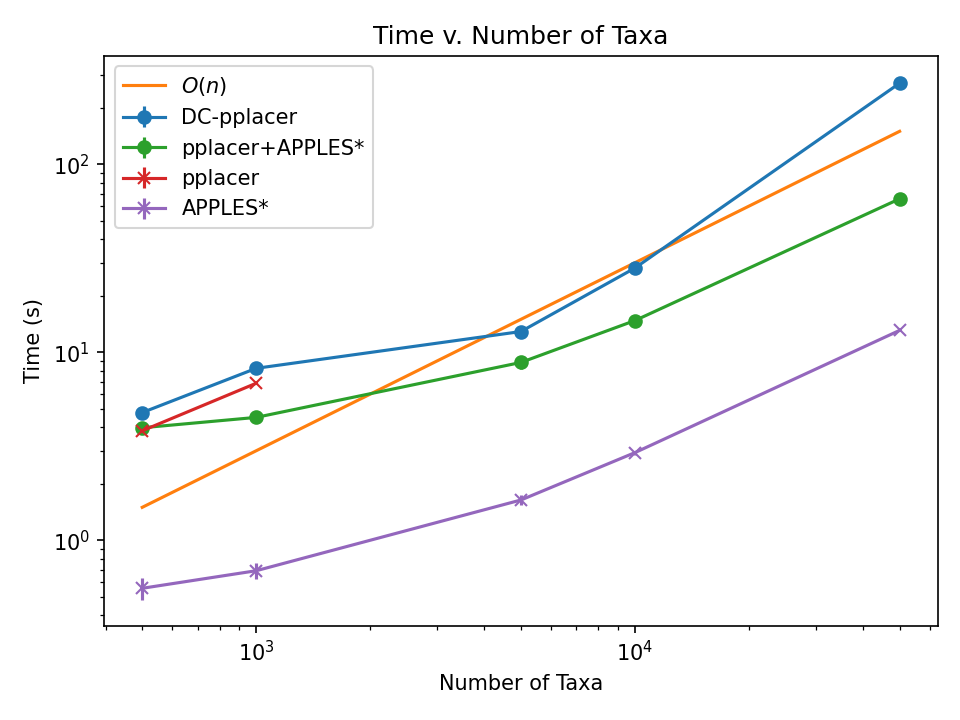
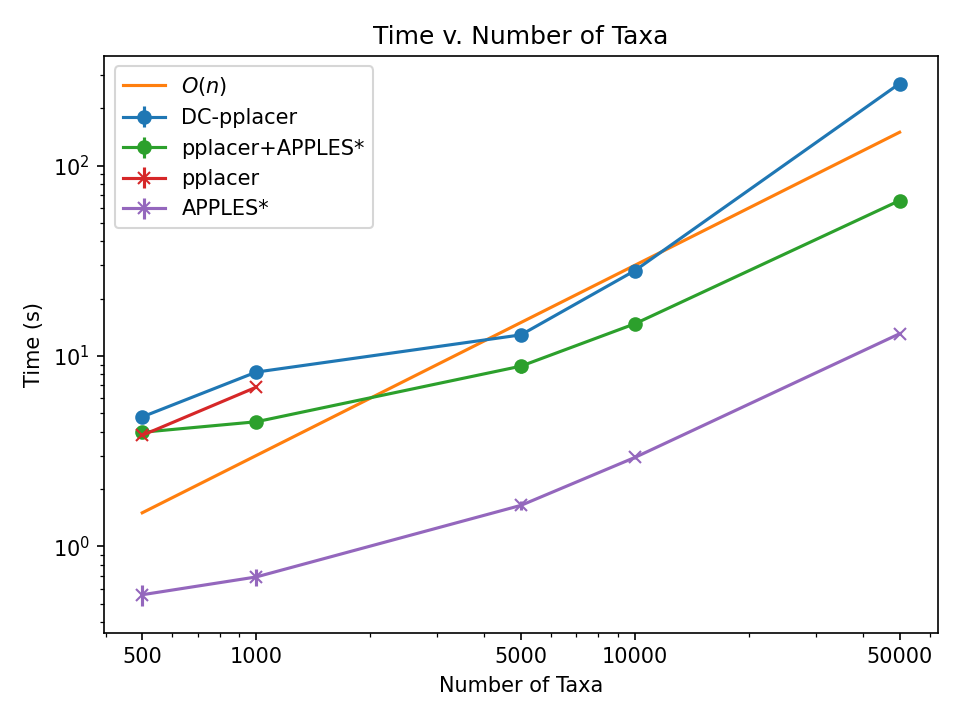
Add xtick, xticklabels at desired locations

diff --git a/data/timing.py b/data/timing.py
@@ -55,6 +55,9 @@ apples_regex = "apples took (.*) s"
 avg_t_apples, std_t_apples = get_time_by_regex("run_output2.log", apples_regex, sizes)
 ax.errorbar(sizes,avg_t_apples,yerr=std_t_apples, label="APPLES*", marker="x")
 
+plt.xticks([500,1000,5000,10000,50000])
+ax.set_xticklabels([500,1000,5000,10000,50000])
+
 ax.legend()
 #plt.show()
 
